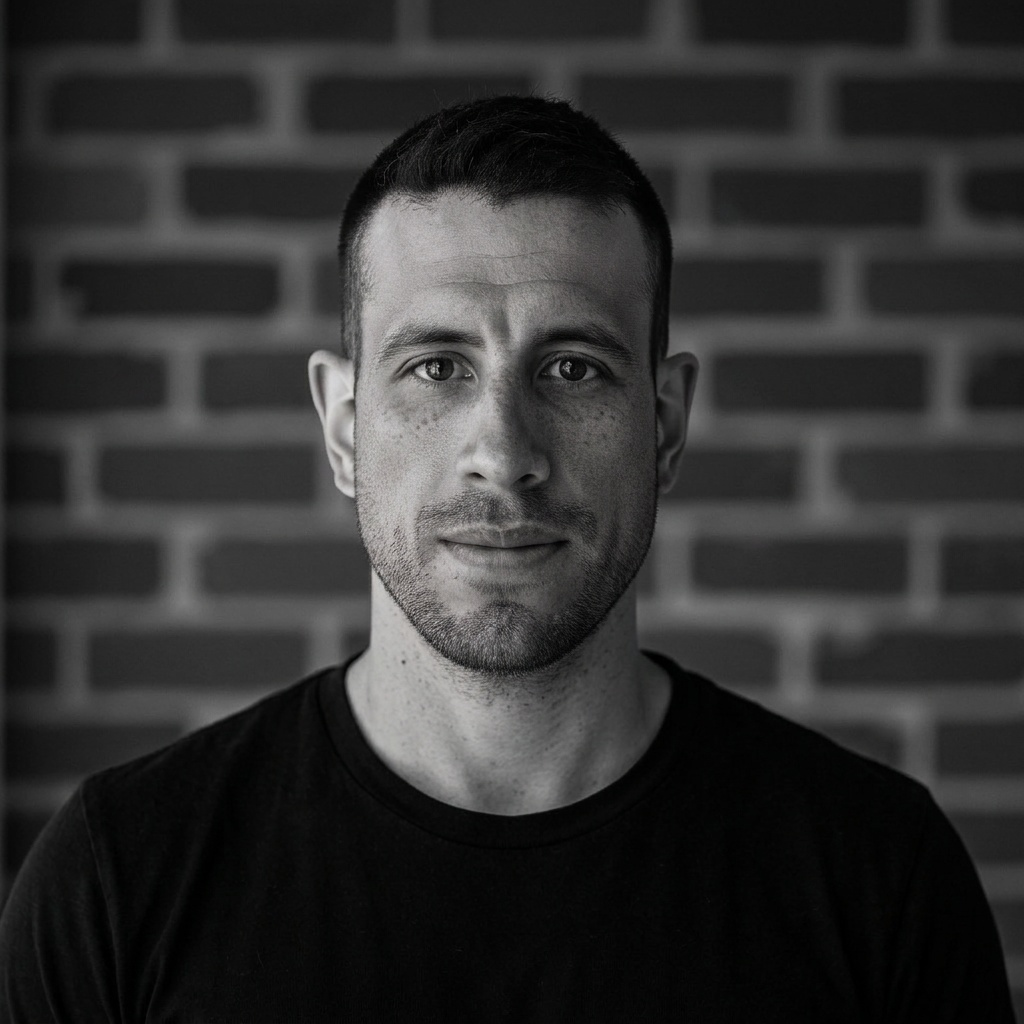
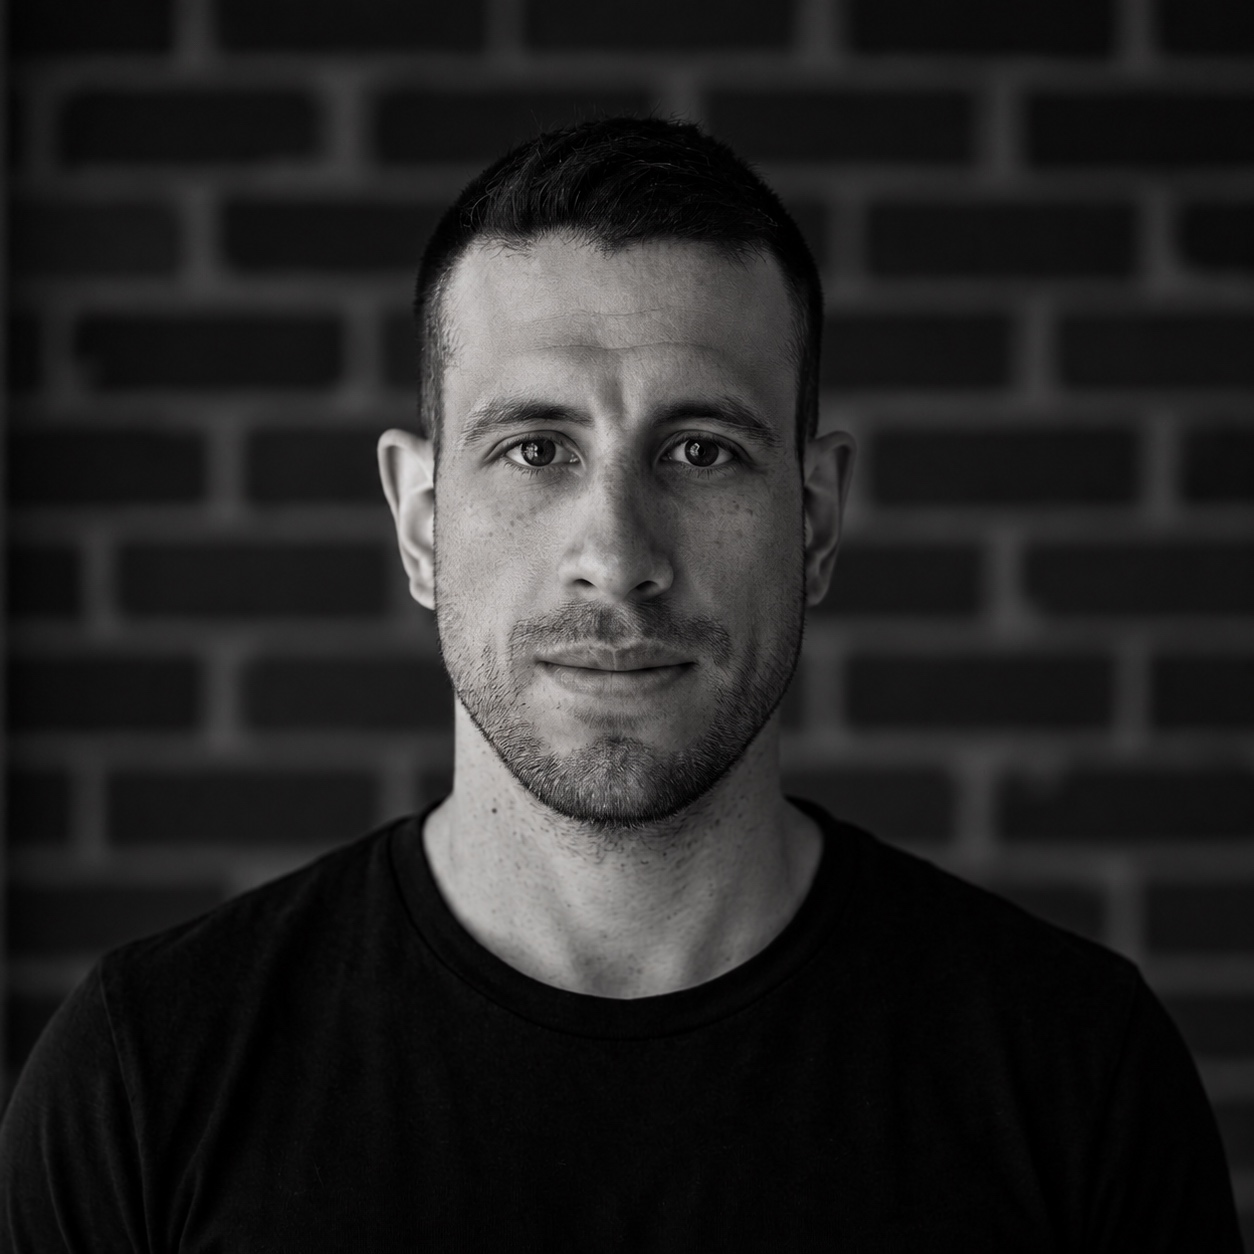
Keep portfolio header visible while scrolling + update photo

diff --git a/styles/portfolio.css b/styles/portfolio.css
@@ -5,6 +5,7 @@
   --portfolio-rule: #d7dedf;
   --portfolio-teal: #246775;
   --portfolio-media: #e8eeee;
+  --portfolio-header-height: 76px;
 }
 
 html:has(.portfolio-site) { scroll-behavior: smooth; }
@@ -24,13 +25,17 @@ body:has(.portfolio-site) { margin: 0; background: var(--portfolio-paper); }
 .portfolio-site img { display: block; max-width: 100%; }
 .portfolio-site :focus-visible { outline: 3px solid var(--portfolio-teal); outline-offset: 4px; }
 .portfolio-site .page-width { width: min(100% - 112px, 1264px); margin-inline: auto; }
-.skip-link { position: absolute; z-index: 20; top: -100px; left: 0; padding: 10px 14px; background: var(--portfolio-paper); border: 2px solid var(--portfolio-teal); color: var(--portfolio-teal) !important; font-family: Archivo, sans-serif; font-size: 16px; font-weight: 700; }
+.skip-link { position: absolute; z-index: 40; top: -100px; left: 0; padding: 10px 14px; background: var(--portfolio-paper); border: 2px solid var(--portfolio-teal); color: var(--portfolio-teal) !important; font-family: Archivo, sans-serif; font-size: 16px; font-weight: 700; }
 .skip-link:focus { top: 10px; }
 .site-header {
-  height: 76px;
+  position: sticky;
+  z-index: 30;
+  top: 0;
+  height: var(--portfolio-header-height);
   display: flex;
   align-items: center;
   justify-content: space-between;
+  background: var(--portfolio-paper);
   border-bottom: 1px solid var(--portfolio-rule);
 }
 .site-mark { color: var(--portfolio-teal) !important; font-family: Archivo, sans-serif; font-size: 30px; font-weight: 800; letter-spacing: -.08em; line-height: 1; }
@@ -88,7 +93,7 @@ body:has(.portfolio-site) { margin: 0; background: var(--portfolio-paper); }
   9%, 12% { opacity: .45; transform: translateY(-5px); clip-path: inset(36% 0 57% 0); }
   13%, 16% { opacity: .5; transform: translateY(4px); clip-path: inset(66% 0 26% 0); }
 }
-.work-section { padding-top: 18px; border-top: 1px solid var(--portfolio-rule); scroll-margin-top: 30px; }
+.work-section { padding-top: 18px; border-top: 1px solid var(--portfolio-rule); scroll-margin-top: calc(var(--portfolio-header-height) + 24px); }
 .work-section h2, .closing-sections h2 { margin: 0; font-family: Archivo, sans-serif; font-size: clamp(38px, 3.3vw, 50px); font-weight: 800; letter-spacing: -.055em; line-height: 1.1; }
 .project-list { margin-top: 22px; }
 .project-row { display: grid; grid-template-columns: minmax(0, 1.55fr) minmax(270px, .85fr); align-items: center; gap: 28px; padding-bottom: 38px; margin-bottom: 38px; border-bottom: 1px solid var(--portfolio-rule); }
@@ -104,7 +109,7 @@ body:has(.portfolio-site) { margin: 0; background: var(--portfolio-paper); }
 .text-action { display: inline-flex; align-items: center; gap: 14px; min-height: 48px; margin-top: 24px; padding: 0 0 3px; color: var(--portfolio-teal); background: none; border: 0; border-bottom: 2px solid currentColor; font-family: Archivo, sans-serif; font-size: 17px; font-weight: 700; }
 .text-action:hover svg, .contact-link:hover svg, .profile-links a:hover svg { transform: translateX(4px); }
 .text-action svg, .contact-link svg, .profile-links svg { transition: transform .2s ease; }
-.about-feature { position: relative; display: grid; grid-template-columns: minmax(0, 1fr) minmax(0, 1fr); gap: 72px; padding-block: 96px 100px; scroll-margin-top: 32px; }
+.about-feature { position: relative; display: grid; grid-template-columns: minmax(0, 1fr) minmax(0, 1fr); gap: 72px; padding-block: 96px 100px; scroll-margin-top: calc(var(--portfolio-header-height) + 24px); }
 .about-story { position: relative; isolation: isolate; }
 .about-story::before { content: "CN"; position: absolute; z-index: -1; top: -85px; left: -24px; color: #e9eeed; font-family: Archivo, sans-serif; font-size: clamp(200px, 26vw, 370px); font-weight: 800; letter-spacing: -.13em; line-height: 1; pointer-events: none; }
 .about-feature h2, .contact-feature h2 { margin: 0; font-family: Archivo, sans-serif; font-size: clamp(54px, 6vw, 82px); font-weight: 800; letter-spacing: -.07em; line-height: .96; }
@@ -118,7 +123,7 @@ body:has(.portfolio-site) { margin: 0; background: var(--portfolio-paper); }
 .about-list ul { display: flex; flex-wrap: wrap; gap: 8px 22px; margin: 0; padding: 0; list-style: none; font-family: Archivo, sans-serif; font-size: 18px; font-weight: 600; }
 .about-list p { margin: 0; font-family: Archivo, sans-serif; font-size: 18px; font-weight: 600; }
 .about-list + .about-list { margin-top: 26px; border-top: 1px solid var(--portfolio-rule); }
-.journey-section { padding-block: 76px 96px; border-top: 1px solid var(--portfolio-rule); scroll-margin-top: 32px; }
+.journey-section { padding-block: 76px 96px; border-top: 1px solid var(--portfolio-rule); scroll-margin-top: calc(var(--portfolio-header-height) + 24px); }
 .journey-heading { margin-bottom: 56px; }
 .journey-kicker { margin: 0; color: var(--portfolio-teal); font-family: "IBM Plex Mono", monospace; font-size: 13px; font-weight: 500; letter-spacing: .08em; text-transform: uppercase; }
 .journey-heading h2 { margin: 16px 0 0; font-family: Archivo, sans-serif; font-size: clamp(46px, 5vw, 68px); font-weight: 800; letter-spacing: -.065em; line-height: 1.02; }
@@ -134,7 +139,7 @@ body:has(.portfolio-site) { margin: 0; background: var(--portfolio-paper); }
 .journey-company { display: inline-flex; align-items: center; gap: 5px; min-height: 36px; margin-top: 5px; color: var(--portfolio-teal) !important; font-family: Archivo, sans-serif; font-size: 18px; font-weight: 700; }
 .journey-company:hover { text-decoration: underline; text-underline-offset: 4px; }
 .journey-list p { max-width: 32ch; margin: 9px 0 0; color: var(--portfolio-quiet); font-size: 18px; line-height: 1.4; }
-.contact-feature { display: grid; grid-template-columns: 1fr 1fr; align-items: end; gap: 72px; padding-block: 45px 75px; border-top: 1px solid var(--portfolio-rule); scroll-margin-top: 32px; }
+.contact-feature { display: grid; grid-template-columns: 1fr 1fr; align-items: end; gap: 72px; padding-block: 45px 75px; border-top: 1px solid var(--portfolio-rule); scroll-margin-top: calc(var(--portfolio-header-height) + 24px); }
 .contact-feature h2 { font-size: clamp(48px, 5vw, 68px); }
 .contact-feature p { margin: 16px 0 0; color: var(--portfolio-quiet); font-size: 20px; }
 .contact-actions { display: flex; flex-direction: column; align-items: flex-start; gap: 20px; }
@@ -153,8 +158,9 @@ body:has(.portfolio-site) { margin: 0; background: var(--portfolio-paper); }
   .project-row-reverse { grid-template-columns: .75fr 1.25fr; }
 }
 @media (max-width: 700px) {
+  :root { --portfolio-header-height: 70px; }
   .portfolio-site .page-width { width: min(100% - 40px, 1264px); }
-  .site-header { height: 70px; position: relative; }
+  .site-header { height: var(--portfolio-header-height); }
   .site-mark { font-size: 29px; }
   .menu-toggle { display: inline-flex; align-items: center; gap: 12px; min-height: 44px; padding: 0; border: 0; background: none; color: var(--portfolio-ink); font-family: Archivo, sans-serif; font-size: 18px; font-weight: 600; }
   .menu-lines { display: flex; width: 26px; flex-direction: column; gap: 5px; }

diff --git a/DESIGN.md b/DESIGN.md
@@ -36,7 +36,7 @@ Stage 3 implements these tokens in `styles/portfolio.css` under `:root` and page
 
 ## Page structure
 
-1. **Header:** name or CN mark at left; Work, About, Contact at right. Links navigate to real sections. On mobile, use a clearly labeled menu if all links do not fit.
+1. **Header:** name or CN mark at left; Work, About, Contact at right. The header stays visible while the page scrolls so navigation remains available. Links navigate to real sections. On mobile, use a clearly labeled menu if all links do not fit.
 2. **Introduction:** “Christopher Nieves” and “Software Engineer” in plain language, followed by the physics/chemistry-to-web background line and Saratoga Springs location. Primary action goes to selected work; contact is a secondary text link. The glitch portrait is visible on desktop and mobile.
 3. **Selected work:** four current entries from `data.js`, with image, project name, one factual description, and only verified technologies. No invented outcomes, client names, or status labels. The layout should allow new projects to replace older ones without redesigning the grid.
 4. **About:** restore the verified location, SUNY Potsdam and Fullstack Academy background, most recent software engineer role, listed skills, and interests in a readable fact layout. Leave out percentage skill bars and unverified current-employment dates.
@@ -48,6 +48,7 @@ Project detail presentation belongs to Stage 4. Stage 3 should keep the current 
 ## Interaction and responsive rules
 
 - Normal vertical document scrolling replaces the current full-screen panel switching. The URL hash identifies sections and native back/forward navigation remains useful.
+- Keep the header pinned to the top of the viewport on desktop and mobile. In-page anchors reserve enough space for it so section headings remain visible after navigation.
 - Project cards have a clear action and visible focus state. Hover can reveal detail but may not be the only way to discover it.
 - The portrait retains an intermittent, localized glitch treatment from the original site; other motion stays limited to purposeful hover/focus feedback. Honor `prefers-reduced-motion` by showing the still portrait.
 - Reserve image dimensions to prevent layout shifts. Preserve visible scrollbars and readable content at narrow widths and 200% zoom.
